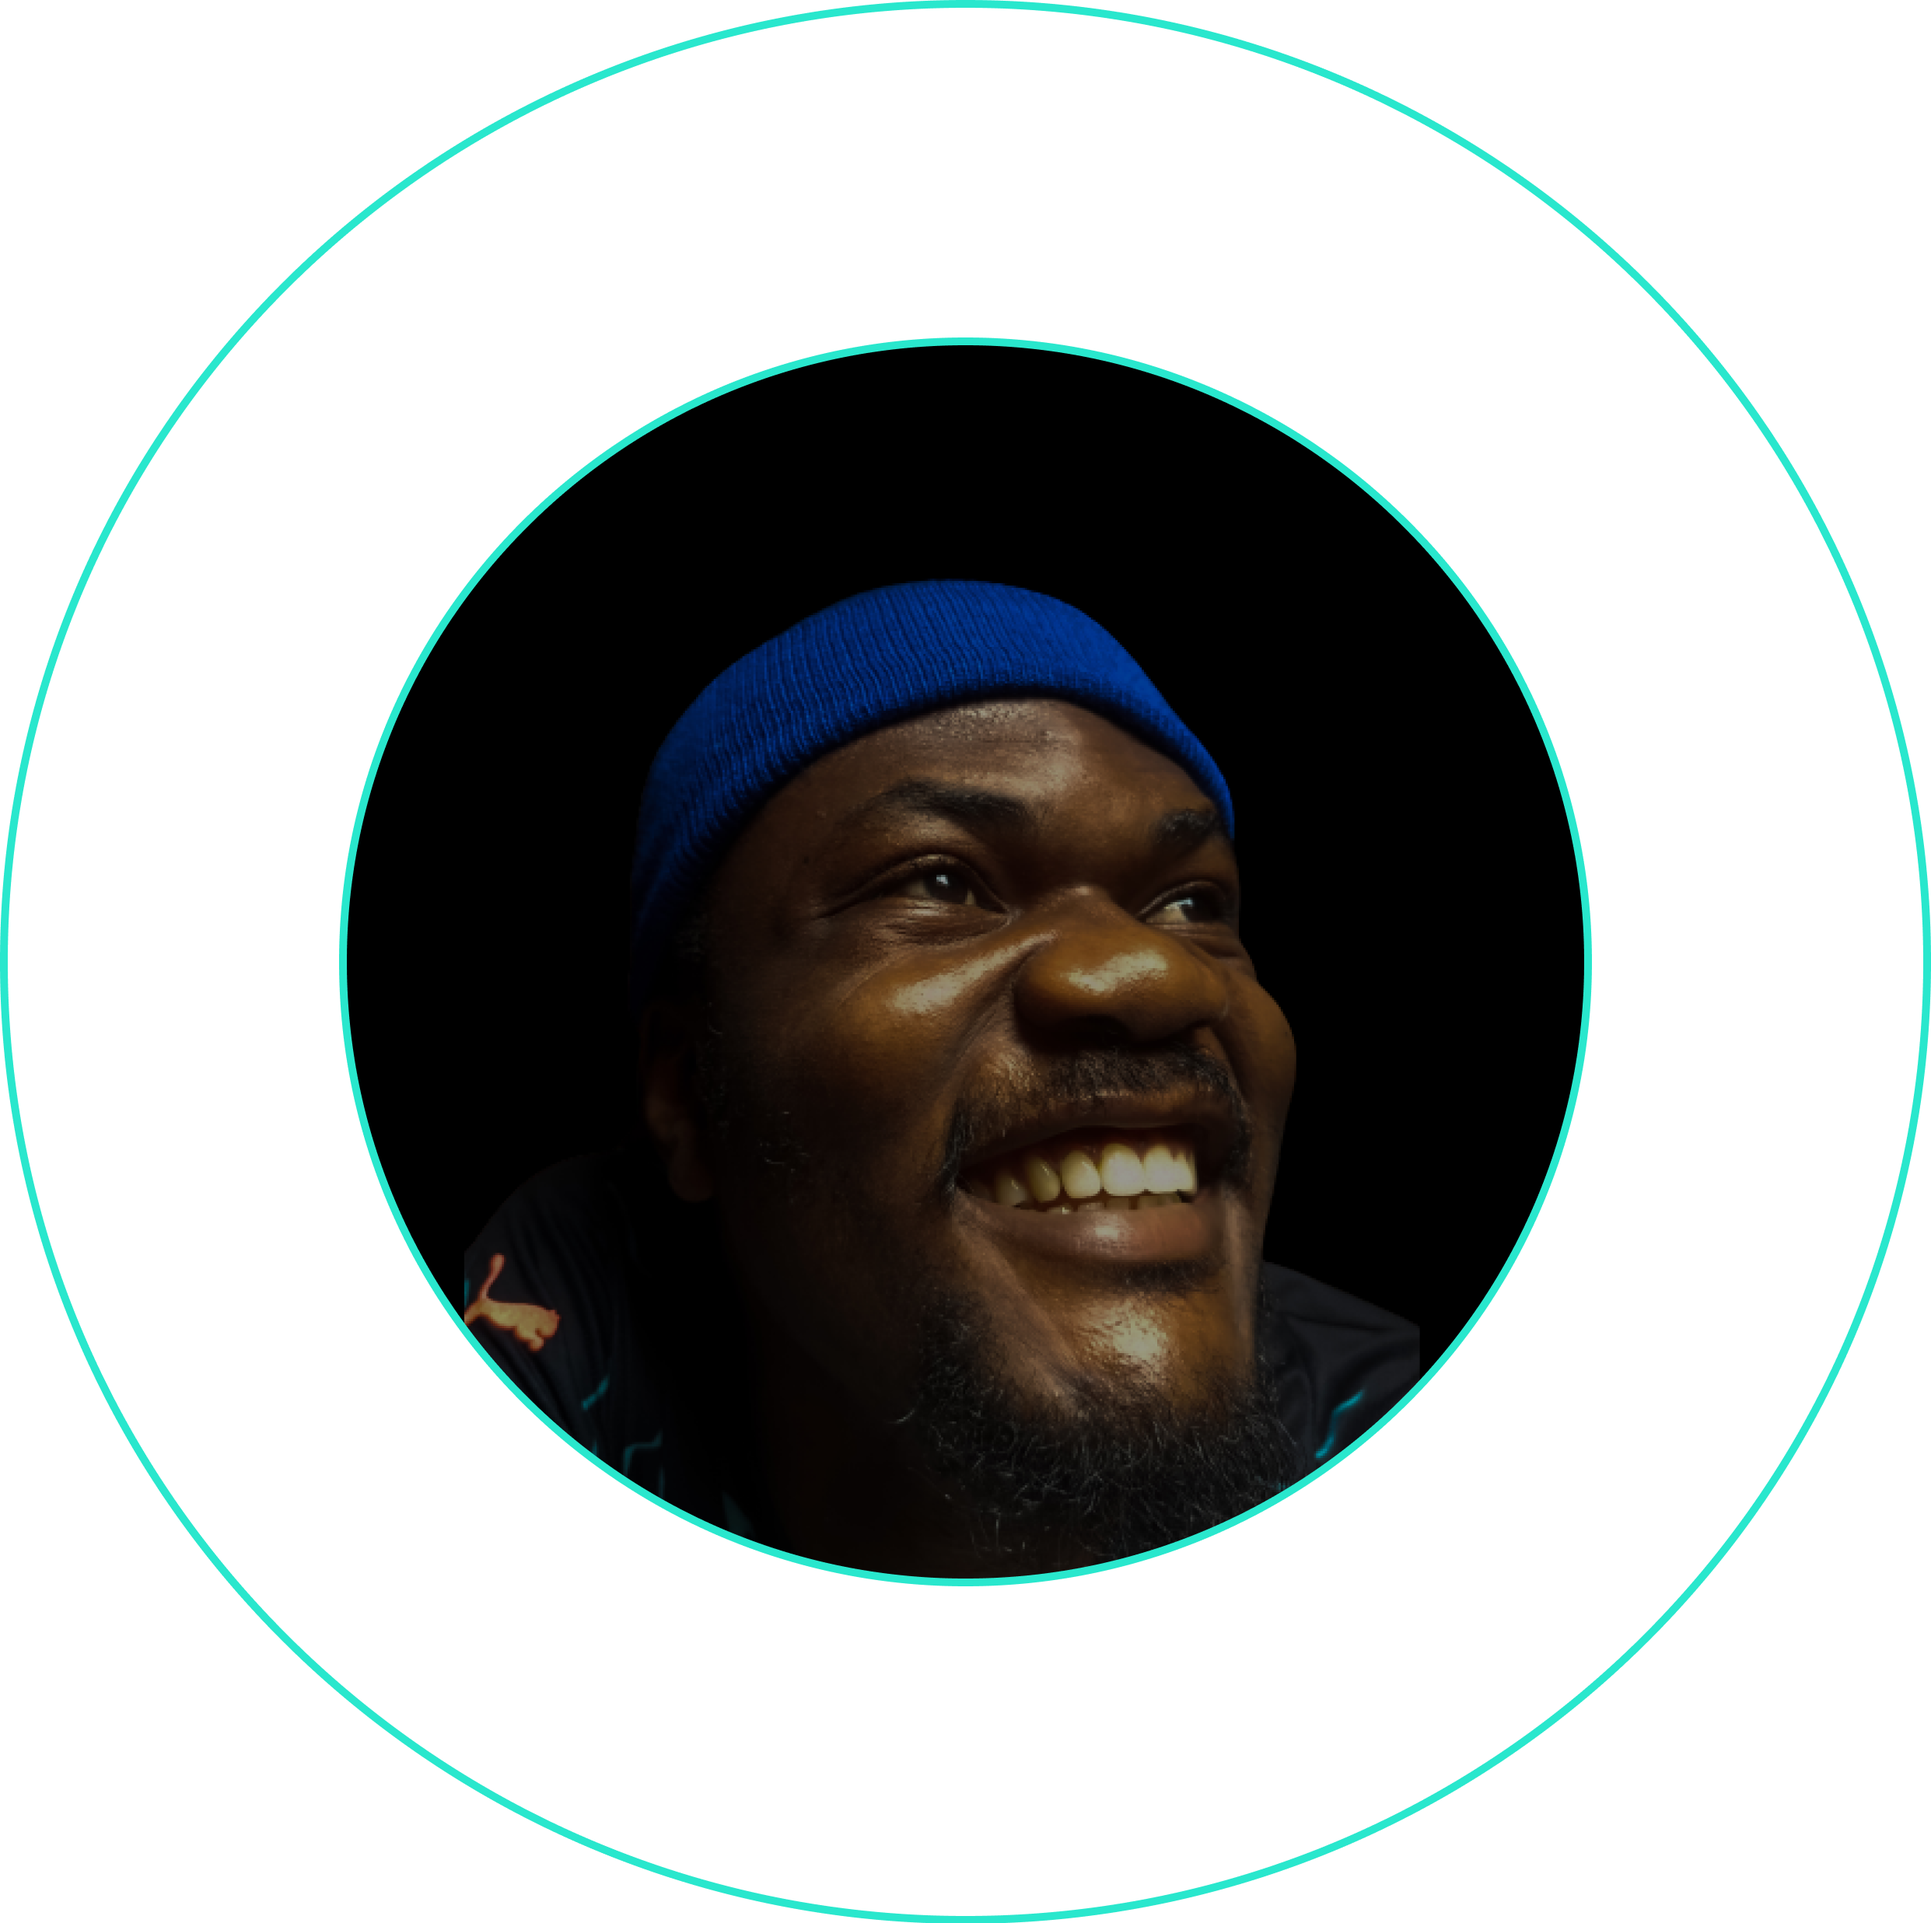
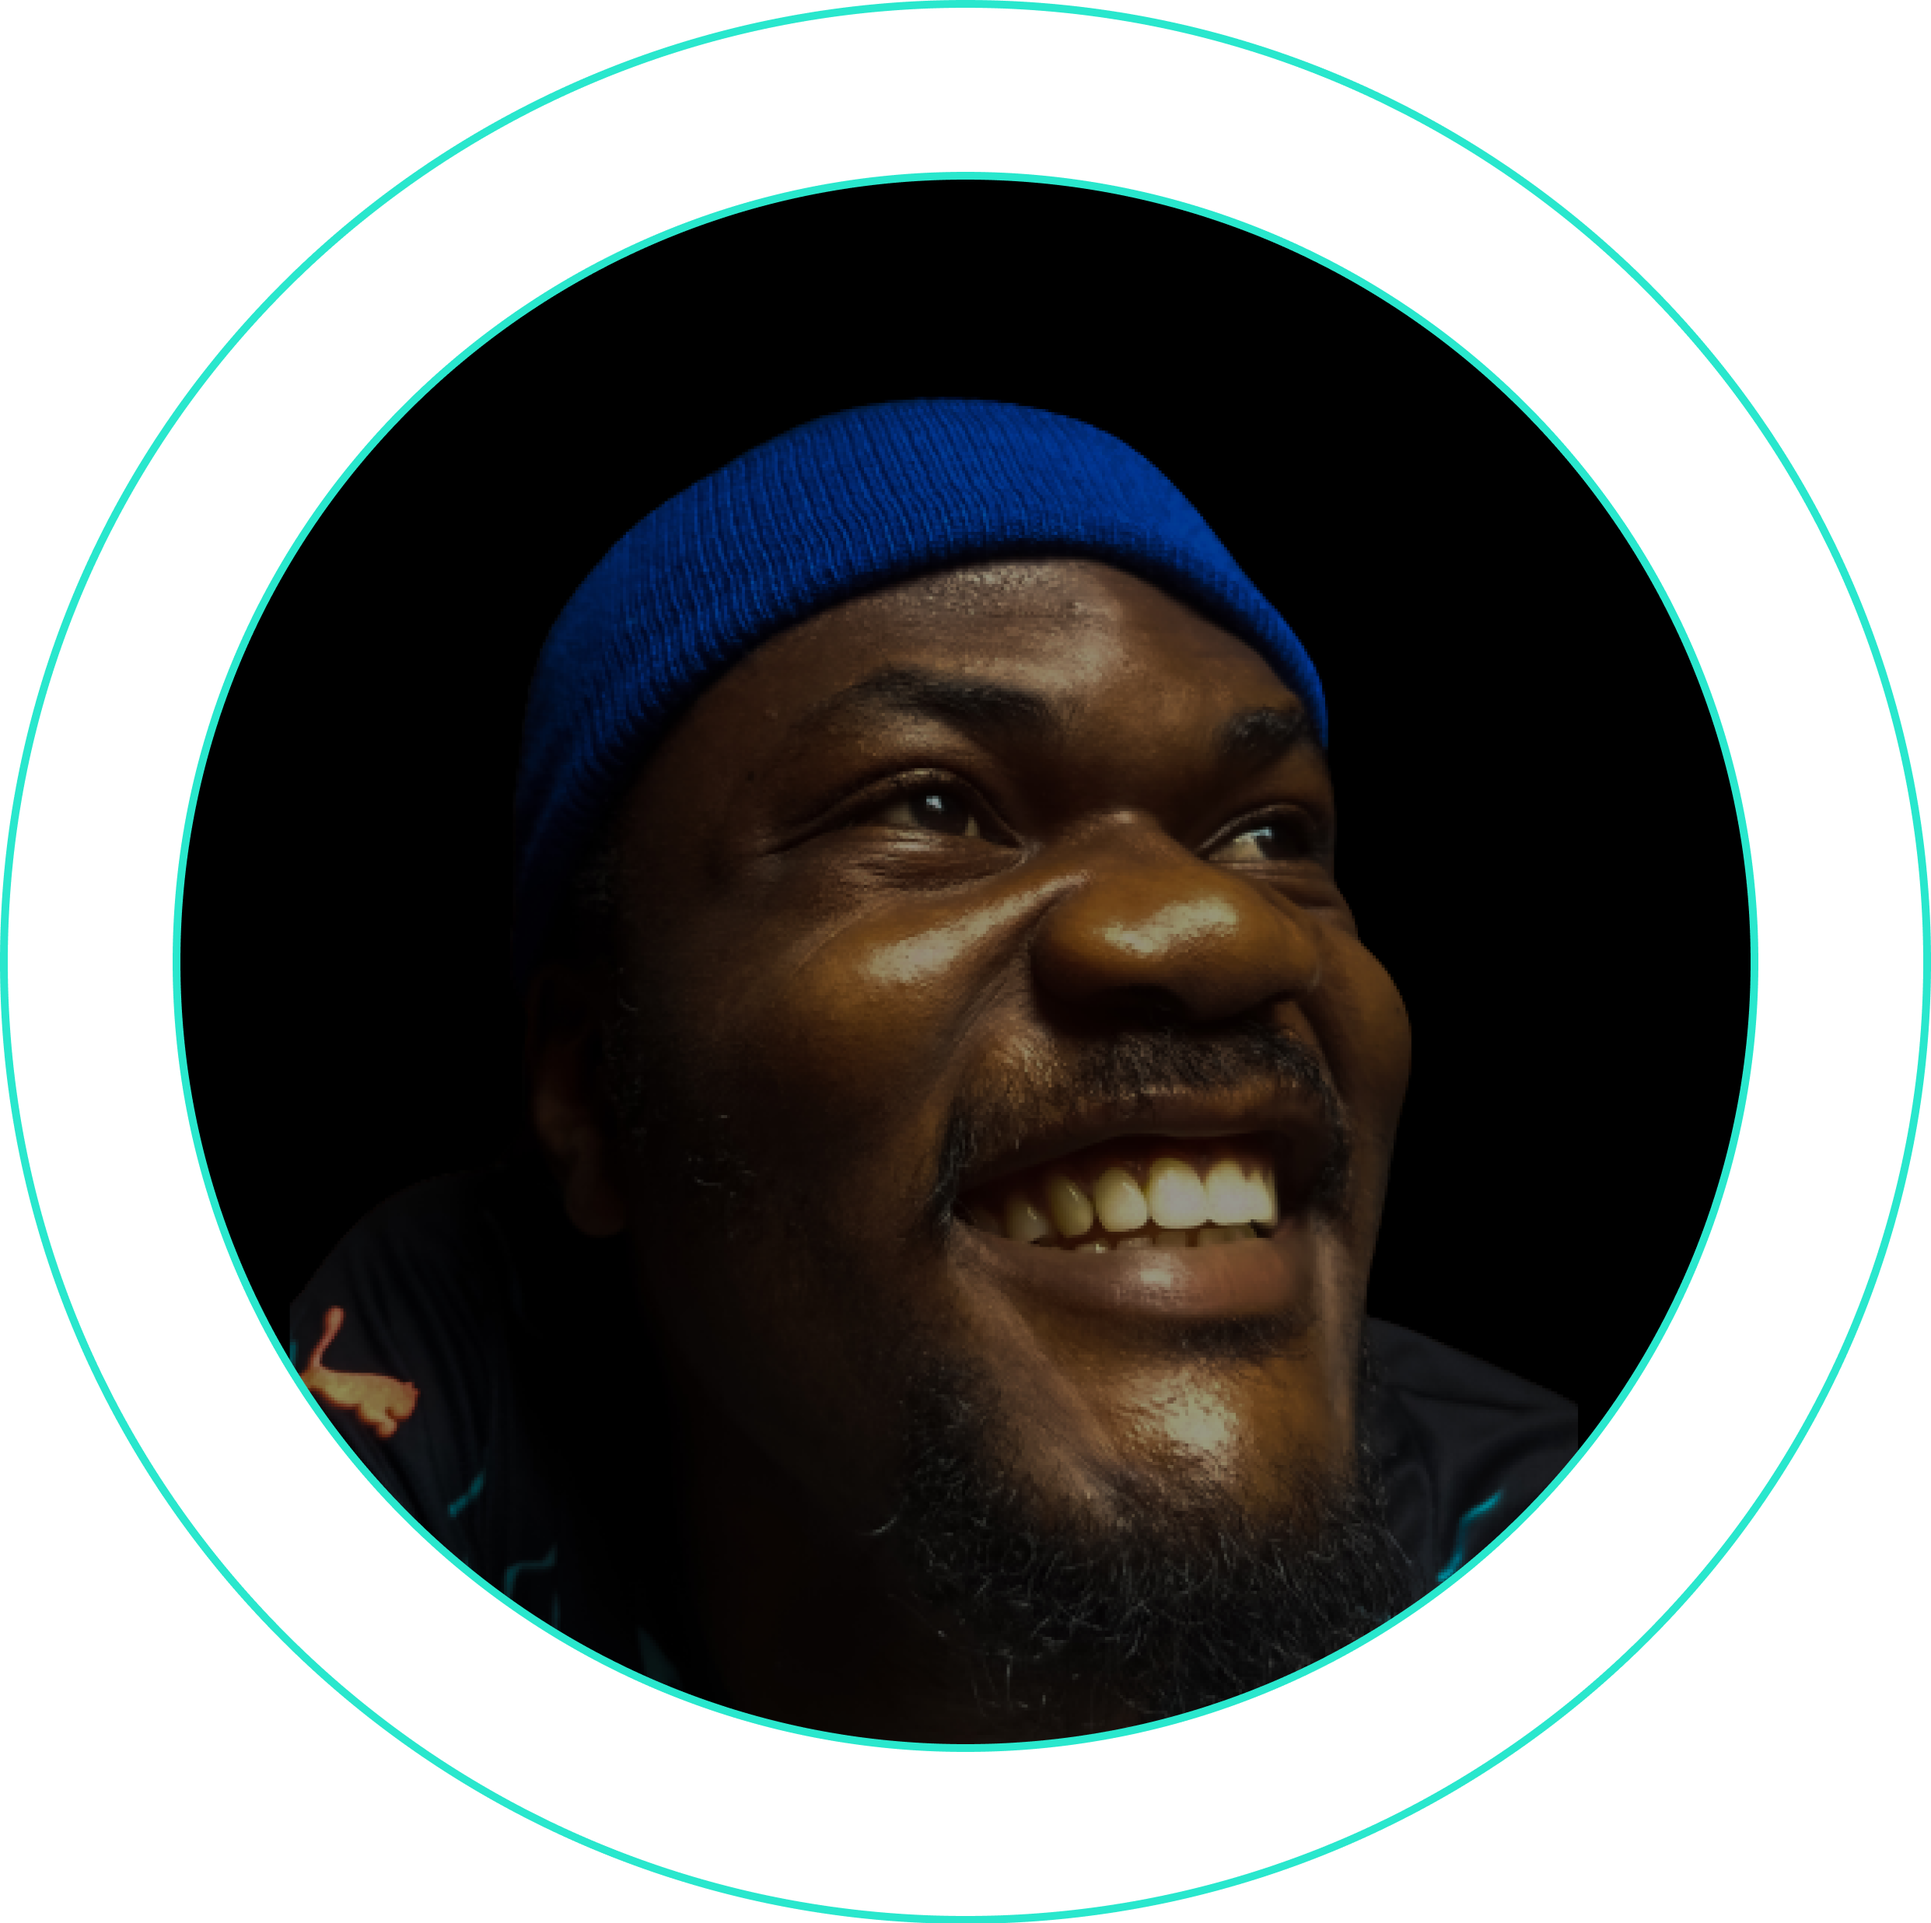
added transition to my images

diff --git a/src/sections/About.jsx b/src/sections/About.jsx
@@ -1,17 +1,34 @@
-import React from "react";
+import React, { useState } from "react";
 import { Box } from "../Components/Box";
 import Title from "../Components/Title";
-import heroimg from "../assets/me.png";
+import me from "../assets/me.png";
+import me2 from "../assets/me2.png";
+import me3 from "../assets/me3.png";
 
 const About = () => {
+	// let myImages = [me, me2, me3]
+	const [MeImg, setMeImg] = useState(me)
+	function MeToggle() {
+		setTimeout(() => {
+			if (MeImg === me) {
+				setMeImg(me2)
+			}
+			else if (MeImg === me2) {
+				setMeImg(me3)
+			} else {
+				setMeImg(me)
+			}
+		}, 2000);
+	}
+MeToggle()
 	return (
 		<div
 			className="min-h-[90vh] text-white flex cursor-default justify-center items-center py-[80px] md:flex-row w-screen flex-col-reverse"
 			id="about">
 			<div className="lefts md:w-[45%] w-[100%] ">
 				<img
-					src={heroimg}
-					alt="a young boy smiling"
+					src={MeImg}
+					alt="My images changing every 2 seconds"
 					className="w-[80%] md:w-[70%] lg:w-[80%] ml-[10%] md:ml-[15%] lg:ml-[10%]"
 				/>
 			</div>
